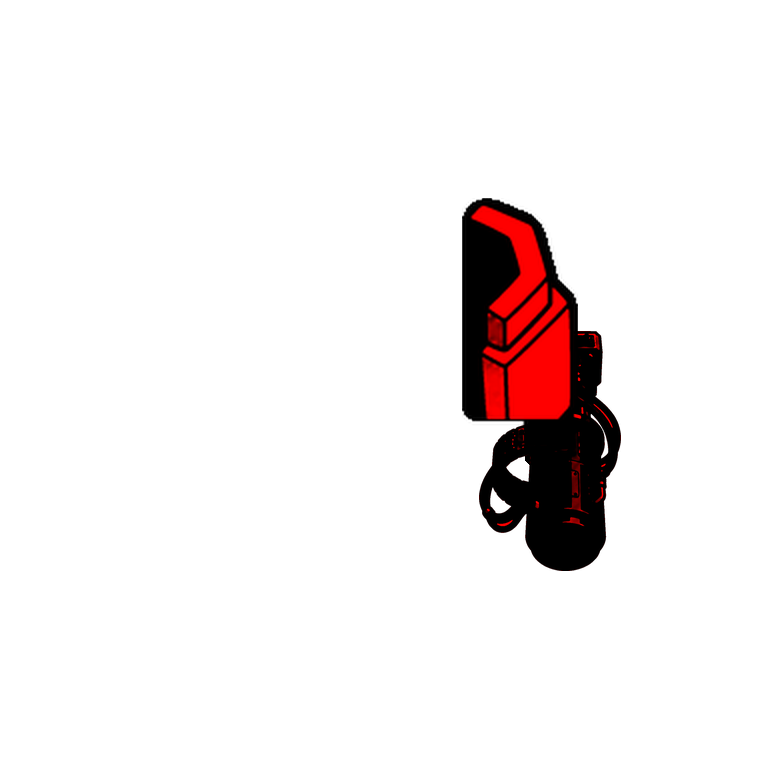
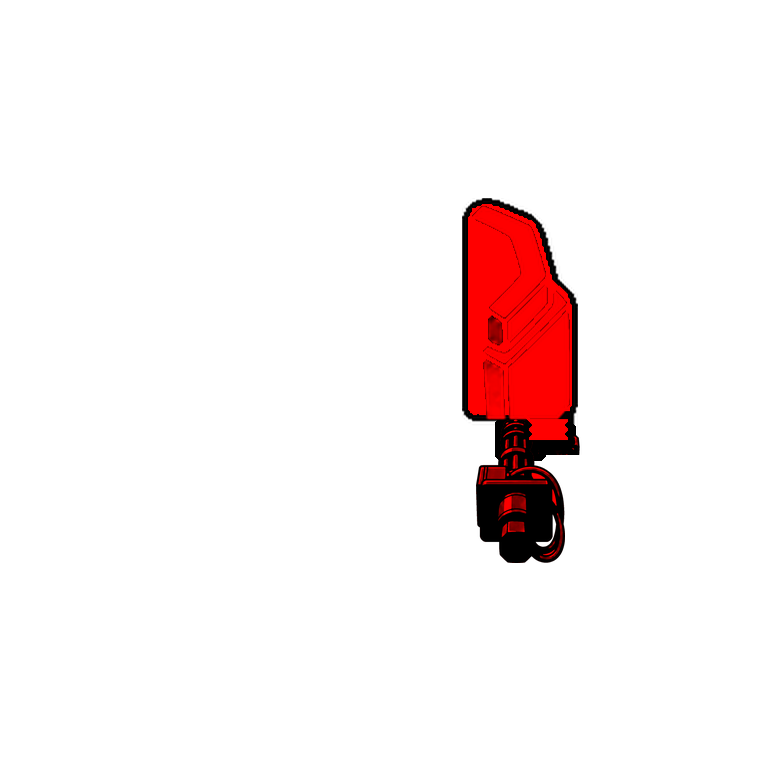
Bulwark: weapons point forward in front/back views (minigun, rocket pod), back plates match the front shape
Claude-Session: https://claude.ai/code/session_01GM4XsNt8FF8EEgy8oUJDKj

Changed region(s): [[0.5938, 0.25, 0.8125, 0.75]]

diff --git a/Source/Art/suit_kit.py b/Source/Art/suit_kit.py
@@ -233,8 +233,32 @@ def build(spec, out):
         mx = lambda x: C - x                                       # mirror across the canvas centre
         N = Layer(); fx = mx((wx.min() + wx.max()) / 2)
         x0, y0, x1, y1 = bbox(P.tex); box = (x0, y0, x1 + 1, y1 + 1)
-        N.put(part(spec['weapons_north'][wname]), fx, bottom=wy.max(), h=int(spec['weapon_h'][wname] * K), flip=True)   # ends where the front view's weapon ends
-        N.put((P.tex.crop(box), P.mask.crop(box)), mx((x0 + x1) / 2), top=y0, h=y1 - y0, flip=True)
+        pw = x1 - x0
+        # weapon rear view: same bottom as the front view's weapon, no wider than 70% of the plate
+        wt, wm = part(spec['weapons_north'][wname]); wh = int(spec['weapon_h'][wname] * K)
+        kk = min(wh / wt.height, pw * 0.70 / wt.width)
+        N.put((wt, wm), fx, bottom=wy.max(), h=int(wt.height * kk), flip=True)
+        # shoulder plate from behind: the front plate's exact outline (mirrored), filled with the plate's back face
+        sil = P.tex.crop(box).transpose(Image.FLIP_LEFT_RIGHT); sa = np.array(sil)[..., 3] > 100
+        # back of the plate = the front plate mirrored, its dark hook interior painted over as solid back armour
+        pt = np.array(P.tex.crop(box)).astype(float); pmk = np.array(P.mask.crop(box))
+        pa_ = pt[..., 3] > 100; lum = pt[..., :3].mean(2)
+        inner = pa_ & ndimage.binary_erosion(pa_, iterations=6)
+        dark = inner & (lum < 95)
+        dark = ndimage.binary_closing(dark, iterations=3) & inner
+        lit = pa_ & (lum > 110)
+        col = np.median(pt[..., :3][lit], 0) if lit.any() else np.array([140, 140, 150.])
+        ys_ = np.nonzero(dark)[0]
+        if len(ys_):
+            yy = np.arange(pt.shape[0])[:, None] * np.ones((1, pt.shape[1]))
+            sh = 1.04 - 0.18 * np.clip((yy - ys_.min()) / max(1, ys_.max() - ys_.min()), 0, 1)
+            for c in range(3): pt[..., c] = np.where(dark, col[c] * sh, pt[..., c])
+            pmk = np.where(dark, 255, pmk)
+            seam = dark & ~ndimage.binary_erosion(dark, iterations=2)       # a soft seam where the hook was
+            pt[seam, :3] *= 0.75
+        tb = Image.fromarray(pt.astype(np.uint8), 'RGBA').transpose(Image.FLIP_LEFT_RIGHT)
+        mb = Image.fromarray(pmk.astype(np.uint8), 'L').transpose(Image.FLIP_LEFT_RIGHT)
+        N.put((tb, mb), mx((x0 + x1) / 2), top=y0, h=y1 - y0)
         N.joint(int(fx), y1 - 26)
         pieces[(p, 'north')] = N
     if spec.get('backpack_peek'):
@@ -243,6 +267,34 @@ def build(spec, out):
         a = np.array(bt).astype(float); a[..., :3] *= 0.72; bt = Image.fromarray(a.astype(np.uint8), 'RGBA')   # the far side: in shadow
         nbb = bbox(pieces[('Body', 'north')].tex)
         pieces[('Body', 'south')].put((bt, bm), cx, top=side_top, w=int((nbb[2] - nbb[0]) * 0.55), behind=True)
+    # ---------------- weapons aimed forward in the front/back views too (end-on art), where it exists
+    fwd = spec.get('weapons_fwd', {})
+    for p_, plate, wname, side in (('ArmL', 'plateLfull', spec['weapon_l'], 'L'), ('ArmR', 'plateRfull', spec['weapon_r'], 'R')):
+        if wname not in fwd: continue
+        P = Layer(); P.put_assembly(f'{src}/south_{plate}.png', f'{src}/south_{plate}_m.png')
+        cutL = Layer(); cutL.put_assembly(f'{src}/south_arm{side}_{wname}.png', f'{src}/south_arm{side}_{wname}_m.png')
+        fullL = Layer(); fullL.put_assembly(f'{src}/south_arm{side}full_{wname}.png', f'{src}/south_arm{side}full_{wname}_m.png')
+        hole = (np.array(fullL.tex)[..., 3] > 100) & ~(np.array(cutL.tex)[..., 3] > 100)   # where the chest nests in
+        x0, y0, x1, y1 = bbox(P.tex); pw = x1 - x0; pcx = (x0 + x1) / 2
+        for facing in ('south', 'north'):
+            N = Layer()
+            wt, wm = part(fwd[wname][facing]); kk = pw * 0.78 / wt.width
+            wcx = pcx if facing == 'south' else C - pcx
+            N.put((wt, wm), wcx, top=y1 - 34, h=int(wt.height * kk))
+            if facing == 'south':
+                pt = np.array(P.tex); pt[hole, 3] = 0; pm_ = np.array(P.mask); pm_[hole] = 0
+                N.tex.alpha_composite(Image.fromarray(pt)); N.mask = Image.fromarray(np.maximum(np.array(N.mask), np.where(pt[..., 3] > 100, pm_, 0)).astype(np.uint8))
+                N.joint(int(wcx), y1 - 30); pieces[(p_, 'south')] = N
+            else:
+                old = pieces[(p_, 'north')]
+                # keep the back plate already built for this arm, swap only the weapon underneath
+                oa = np.array(old.tex); keep = oa[..., 1] >= 0
+                ob = bbox(old.tex)
+                plate_only = np.zeros_like(oa); cut = int(y1 + 4)
+                plate_only[:cut] = oa[:cut]
+                N.tex.alpha_composite(Image.fromarray(plate_only))
+                om = np.array(old.mask); om[cut:] = 0; N.mask = Image.fromarray(np.maximum(np.array(N.mask), om).astype(np.uint8))
+                N.joint(int(wcx), y1 - 30); pieces[(p_, 'north')] = N
     # ---------------- save: helmet stored HEAD px lower (the game lifts it to the head)
     for (p, f), L in pieces.items():
         if p == 'Helmet': L.shift(HEAD)
@@ -281,11 +333,12 @@ def bulwark_spec(sp):
         assembly=f'{sp}/kit_src', weapon_l='minigun', weapon_r='rockets',
         body=dict(east=f'{sp}/views/chassis_east_caps.png', north=f'{sp}/views/chassis_north_tall.png'), backpack_peek=True,
         helmet=dict(east=f'{sp}/views/helmet_east.png', north=f'{sp}/views/helmet_north.png'),
-        plate=dict(east=f'{sp}/views/plate_east.png', north=f'{sp}/views/plate_north.png'),
+        plate=dict(east=f'{sp}/views/plate_east.png', north=f'{sp}/views/plate_north.png', back=f'{sp}/views/plate_back.png'),
         legs=dict(south=f'{sp}/views/legs_south.png', east=f'{sp}/views/legs_east2.png', north=f'{sp}/views/legs_north.png'),
         weapons_south={w: f'{sp}/weap/{w}.png' for w in ws},
         weapons_east={w: f'{sp}/weap_east/{w}.png' for w in ws},
         weapons_north={w: f'{sp}/weap_north/{w}.png' for w in ws},
+        weapons_fwd={w: dict(south=f'{sp}/weap_fwd/{w}_south.png', north=f'{sp}/weap_fwd/{w}_north.png') for w in ('minigun', 'rockets')},
         full_east=dict(image=f'{sp}/views/full_east.png', body_image=f'{sp}/views/full_east_noarm.png', pieces={            # outlines in the 1024 painting
             'Helmet': [(372, 175), (378, 95), (450, 55), (650, 55), (705, 120), (705, 372), (640, 388), (590, 372), (560, 330), (540, 188)],
             'ArmL': [(285, 330), (345, 185), (545, 182), (605, 318), (605, 488), (915, 488), (915, 685), (640, 685), (455, 640), (345, 605), (285, 480)],

diff --git a/docs/STYLE_GUIDE.md b/docs/STYLE_GUIDE.md
@@ -70,3 +70,11 @@ later be its own apparel / module and be damaged and lost on its own.
   leg stubs are shared between suits.
 Bulwark sources: `Source/Art/kit/bulwark_src/`; output: `Source/Art/kit/out_bulwark/`
 (choose weapons with WEAPON_L / WEAPON_R).
+
+## Bulwark view consistency (owner notes)
+
+- Weapons point FORWARD in every view, as they do when firing: front view = end-on art pointing at the viewer
+  (`weap_fwd/<w>_south.png`), back view = end-on rear (`weap_fwd/<w>_north.png`), side view = level, muzzle forward.
+  Done for minigun and rocket pod; the other eight weapons still need their two end-on paintings.
+- Back-view shoulder plates = the front plates mirrored, with the hook interior painted over as solid back
+  armour, at the same height as the front and side views.
